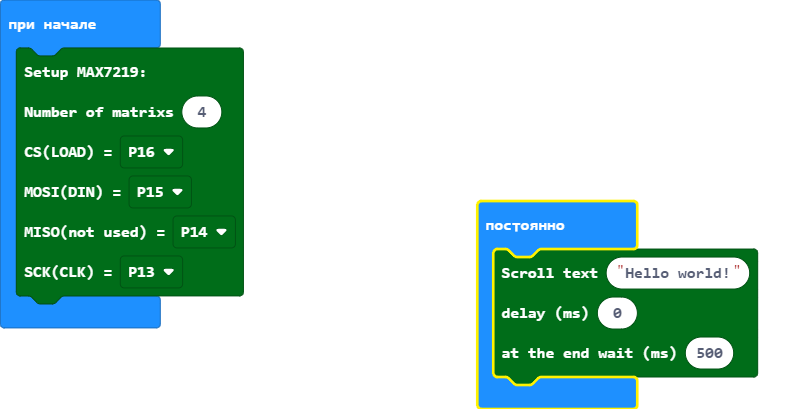
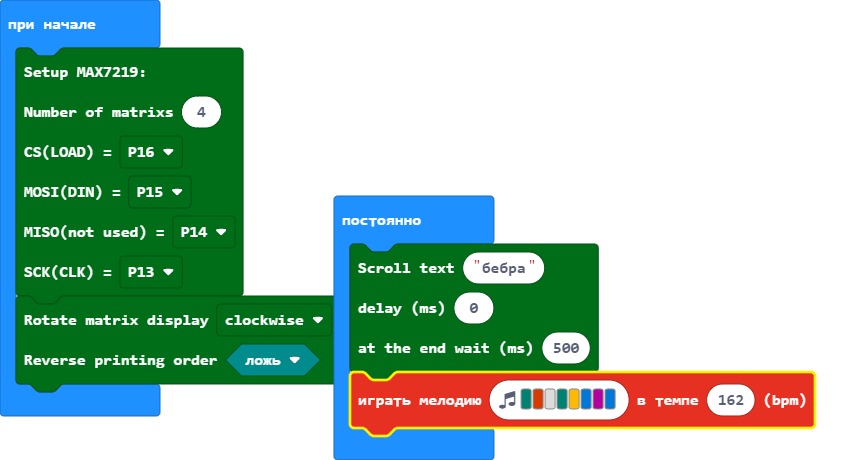
Update main.blocks, main.ts

diff --git a/main.ts b/main.ts
@@ -5,10 +5,15 @@ DigitalPin.P15,
 DigitalPin.P14,
 DigitalPin.P13
 )
+max7219_matrix.for_4_in_1_modules(
+rotation_direction.clockwise,
+false
+)
 basic.forever(function () {
     max7219_matrix.scrollText(
-    "Hello world!",
+    "бебра",
     0,
     500
     )
+    music.playMelody("F B - F A E C E ", 162)
 })
